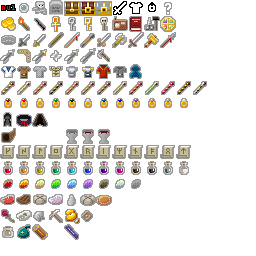
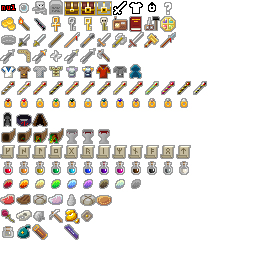
V0.2.0: Added Horn of Plenty Sprite Switching

Changed region(s): [[0.0625, 0.5, 0.25, 0.5625]]

diff --git a/src/com/shatteredpixel/shatteredpixeldungeon/items/artifacts/HornOfPlenty.java b/src/com/shatteredpixel/shatteredpixeldungeon/items/artifacts/HornOfPlenty.java
@@ -26,7 +26,7 @@ import java.util.ArrayList;
  */
 public class HornOfPlenty extends Artifact {
 
-    //TODO: add sprite switching, add polish.
+    //TODO: add polish.
 
     {
         name = "Horn of Plenty";
@@ -129,14 +129,22 @@ public class HornOfPlenty extends Artifact {
 
                 //generates 0.2 food value every round, +0.02 value per level
                 //to a max of 0.8 food value per round (0.2+0.6, at level 30)
-                partialCharge += (1f*(0.2+(0.02*level)));
+                partialCharge += 18;
 
                 //charge is in increments of 36 food value.
                 if (partialCharge >= 36) {
                     charge++;
-                    //TODO: change sprite based on fullness.
-                    //we'll do it at 3/0, 7/10, and 10/10, to relate to food items.
                     partialCharge -= 36;
+
+                    if (charge == chargeCap)
+                        image = ItemSpriteSheet.ARTIFACT_HORN4;
+                    else if (charge >= 7)
+                        image = ItemSpriteSheet.ARTIFACT_HORN3;
+                    else if (charge >= 3)
+                        image = ItemSpriteSheet.ARTIFACT_HORN2;
+                    else
+                        image = ItemSpriteSheet.ARTIFACT_HORN1;
+
                     if (charge == chargeCap){
                         GLog.p("Your horn is full of food.");
                         partialCharge = 0;
@@ -144,7 +152,6 @@ public class HornOfPlenty extends Artifact {
                 }
             } else
                 partialCharge = 0;
-
 
             spend( TICK );
 
